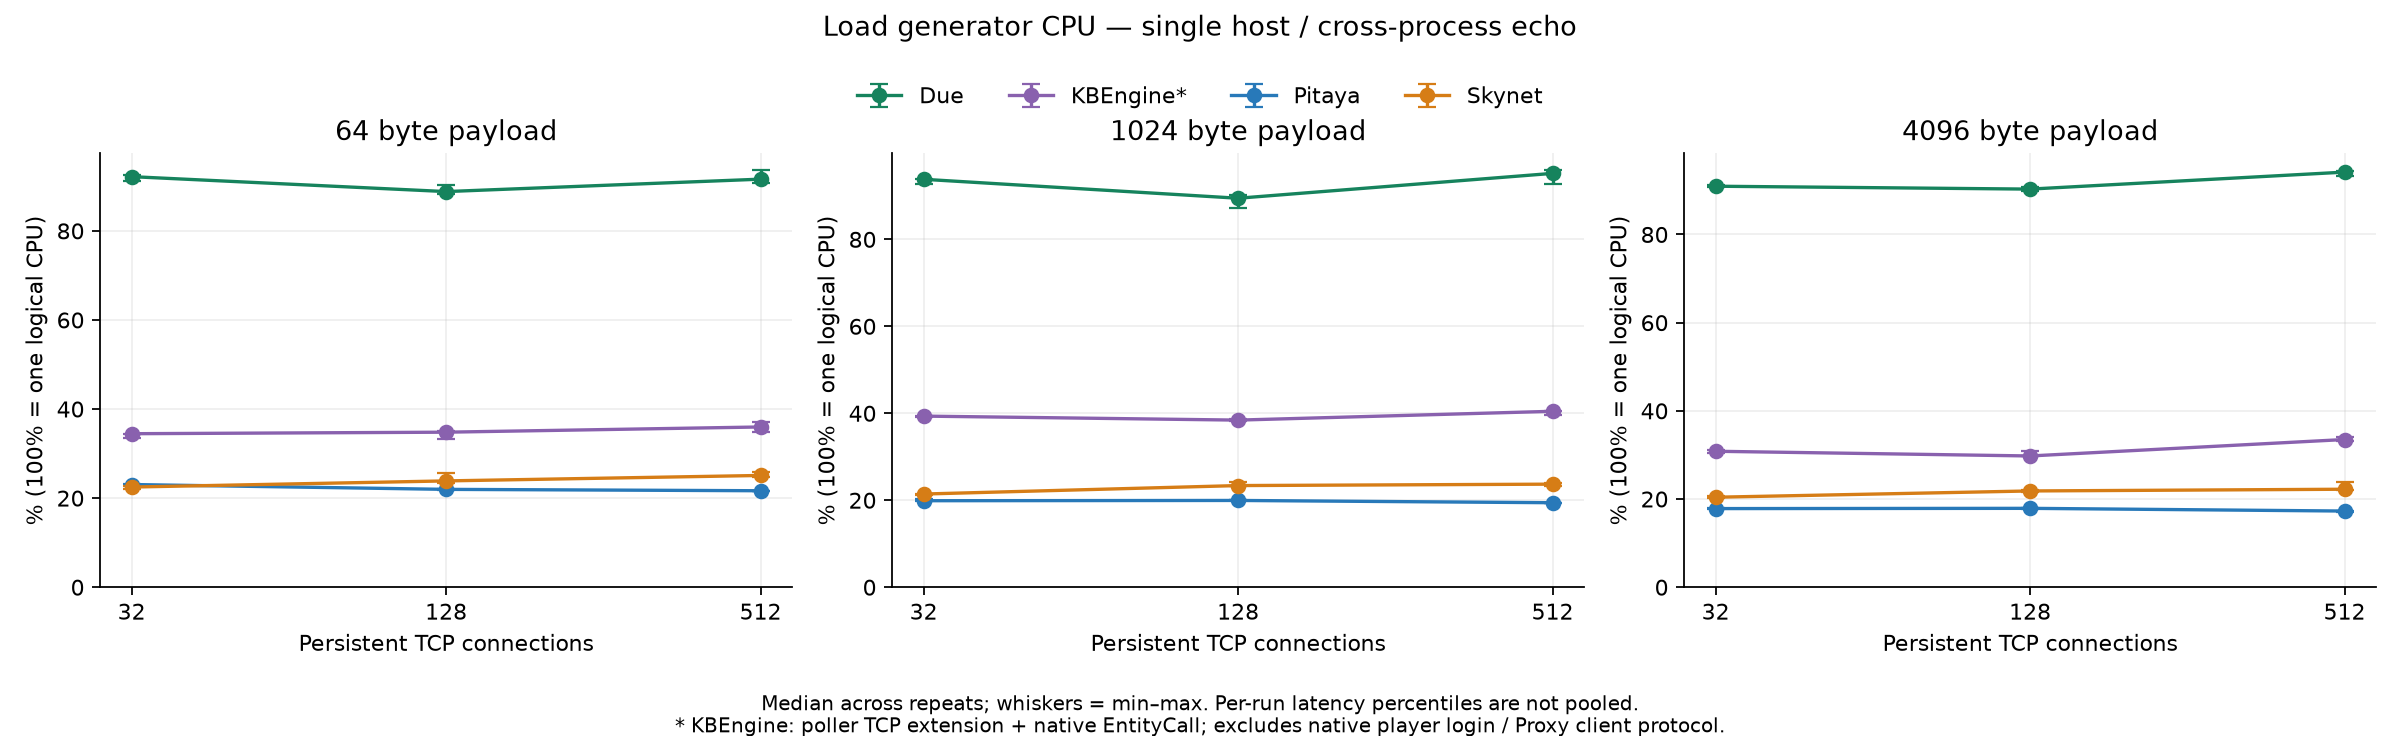
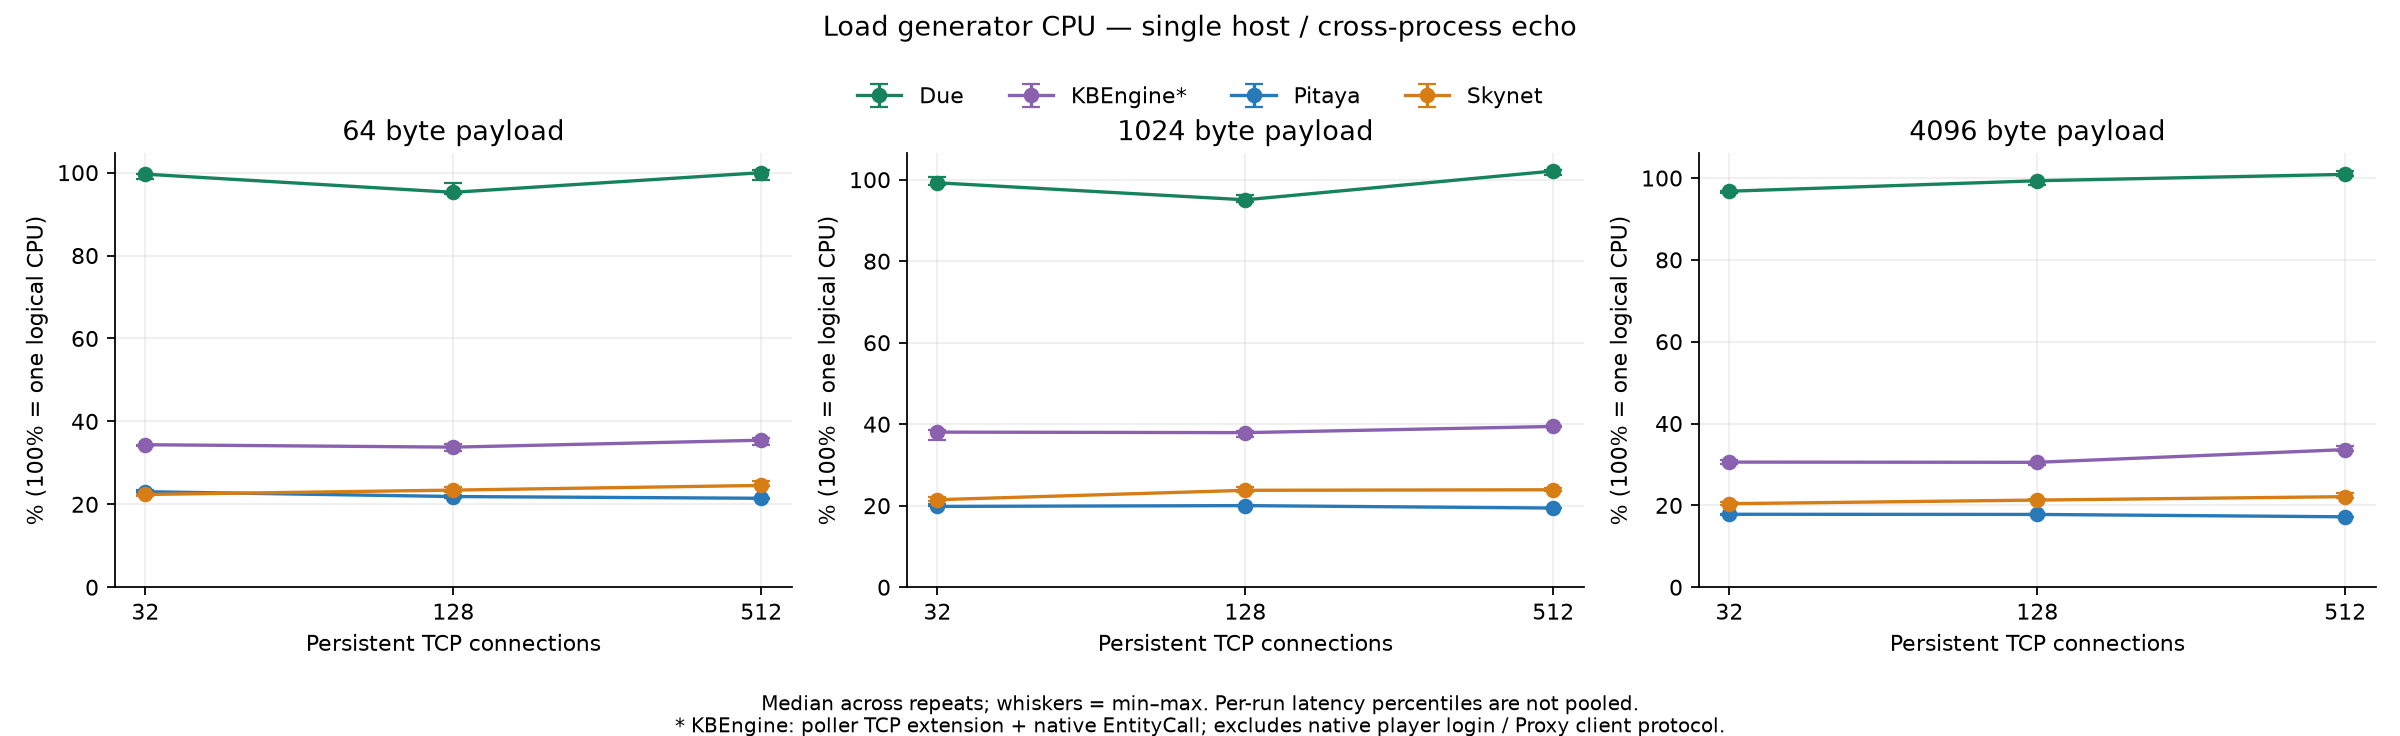
docs: refresh benchmark results for v2.6.5
## documentation

- Replace the stress-test table with the 2026-10-26 four-framework TCP retest figures and label Due as the v2.6.5 local snapshot `d56a53eb7888`.
- Add the test provenance note: 108 cases, 10,800,000 requests, zero failures, verified `due.Version` and clean worktree.
- Document the comparison caveats for the KBEngine poller/EntityCall baseline, per-role CPU accounting, and Due's default debug mode.
- Regenerate the benchmark charts for QPS, P99, P99.9, load-generator CPU, server CPU, and server peak RSS from the new runs.

## Validation

- Markdown structure, tables, and links reviewed in both README variants; no Go code or module metadata changed, so no Go checks were run.

diff --git a/README.md b/README.md
@@ -789,6 +789,8 @@ INFO[2024/07/03 14:53:13.995049] main.go:72 [I'm server, and the current time is
 
 ### 13. Stress Test
 
+Updated **2026-10-26** using the [four-framework TCP retest report](https://github.com/dobyte/due-benchmark/blob/master/comparison/reports/2026-10-26/REPORT.md). All 108 cases and 10,800,000 measured requests completed with zero failures. Before testing, both the local `due.Version` constant and the deployed binary were verified as **v2.6.5**. The source worktree was clean at `d56a53eb788837b33d0d0a205b1c9f58fb0103ed`; HEAD had no release tag, so this is a frozen local source snapshot.
+
 1. Test scenario
 
 The load generator calls the TCP entry of Skynet, Pitaya, KBEngine and Due. Each framework serves the request through a gateway process and a business process, and the business operation echoes the payload unchanged. The measurement covers network I/O, protocol handling, routing and inter-process dispatch, without database work or artificial delays.
@@ -814,7 +816,7 @@ The load generator calls the TCP entry of Skynet, Pitaya, KBEngine and Due. Each
 | OS | CentOS 7, Linux 3.10, x86_64 |
 | Go | 1.27.1 |
 | Deployment | Single machine loopback, frameworks run one after another |
-| Frameworks | Skynet `64391f732e76`, Pitaya `f3d0af570f76`, KBEngine `7d379b9f943d`, Due snapshot based on `8f44429a84ce` |
+| Frameworks | Skynet `64391f732e76`, Pitaya `f3d0af570f76`, KBEngine `7d379b9f943d`, Due v2.6.5 local snapshot `d56a53eb7888` |
 
 Go processes run with `GOMAXPROCS=2` and the two Skynet processes with `thread=2`. CPU affinity is bound per role: gateway on logical CPUs `0,6`, business on `1,7`, load generator on `2,3,8,9`, infrastructure on `4,10`. Affinity limits the range of the test processes, it does not reserve the whole machine.
 
@@ -824,12 +826,14 @@ All values are medians of three rounds; the range in parentheses is the minimum 
 
 | Framework | QPS (min-max) | P99 (ms) | P99.9 (ms) | Server CPU (%) | Server RSS (MiB) |
 |---|---:|---:|---:|---:|---:|
-| Skynet | 21,410 (21,133-21,642) | 8.330 | 19.655 | 184.1 | 152.0 |
-| Pitaya | 16,625 (16,529-16,625) | 11.166 | 12.478 | 349.1 | 52.6 |
-| KBEngine | 47,669 (47,441-47,902) | 2.893 | 3.391 | 152.8 | 33.5 |
-| Due | 97,005 (95,935-97,234) | 3.381 | 5.068 | 325.0 | 54.4 |
+| Skynet | 21,390 (21,230-21,572) | 7.873 | 19.681 | 188.5 | 149.7 |
+| Pitaya | 16,661 (16,584-16,685) | 11.111 | 12.052 | 350.4 | 53.5 |
+| KBEngine | 46,827 (46,058-47,892) | 2.936 | 3.015 | 152.8 | 33.6 |
+| Due v2.6.5 | 102,752 (102,423-103,330) | 2.963 | 4.739 | 322.6 | 58.0 |
 
 Due reaches the highest throughput under this load. KBEngine keeps lower P99 and P99.9 latency with this adapter, and Due consumes more CPU, so the throughput gap cannot be read as a per-CPU efficiency comparison.
+
+KBEngine uses the official poller TCP extension and native BaseApp/CellApp EntityCall; native player login and the Proxy client protocol are excluded. Server CPU/RSS covers only gateway and business processes, excluding infrastructure and management services; 100% CPU means one logical CPU. Due retains its default debug mode. The other three frameworks and load generator reuse the first run's fixed binaries, with all four frameworks measured again.
 
 These results describe the cross-process echo path of the listed versions and CPU allocation only. They are not a general ranking of the frameworks, do not include coordinated-omission correction, and do not cover idle connections, connection multiplexing, login storms or multi-machine deployments. See [due-benchmark](https://github.com/dobyte/due-benchmark) for the remaining payload and connection combinations, the full report and the raw data.
 

diff --git a/README-ZH.md b/README-ZH.md
@@ -788,6 +788,9 @@ INFO[2024/07/03 14:53:13.995049] main.go:72 [I'm server, and the current time is
 ```
 
 ### 13.压力测试
+
+本节数据更新于 **2026-10-26**，来自[四框架 TCP 复测报告](https://github.com/dobyte/due-benchmark/blob/master/comparison/reports/2026-10-26/REPORT.md)。共完成 108 个测试点、10,800,000 次正式请求，失败为 0。开测前，本地源码 `due.Version` 和实际部署二进制均核验为 **v2.6.5**；源码工作区干净，提交 `d56a53eb788837b33d0d0a205b1c9f58fb0103ed`。HEAD 无发布标签，本次使用冻结的本地源码快照。
+
 1.测试场景
 
 压测器分别调用 Skynet、Pitaya、KBEngine 和 Due 的 TCP 入口。每个框架都经过网关进程和业务进程，业务操作为 Echo，原样返回负载。测量覆盖网络收发、协议处理、路由和跨进程调度，不包含数据库业务或人为延迟。
@@ -813,7 +816,7 @@ INFO[2024/07/03 14:53:13.995049] main.go:72 [I'm server, and the current time is
 | 操作系统 | CentOS 7，Linux 3.10，x86_64 |
 | Go | 1.27.1 |
 | 部署 | 单机 loopback，各框架依次运行 |
-| 框架版本 | Skynet `64391f732e76`、Pitaya `f3d0af570f76`、KBEngine `7d379b9f943d`、Due 基于 `8f44429a84ce` 的本地源码快照 |
+| 框架版本 | Skynet `64391f732e76`、Pitaya `f3d0af570f76`、KBEngine `7d379b9f943d`、Due v2.6.5 本地源码快照 `d56a53eb7888` |
 
 Go 进程设置 `GOMAXPROCS=2`，两个 Skynet 进程设置 `thread=2`。CPU 按角色绑定：网关为逻辑 CPU `0,6`，业务为 `1,7`，压测器为 `2,3,8,9`，基础设施为 `4,10`。CPU 亲和性只限制测试进程的运行范围，不等于全机独占。
 
@@ -823,12 +826,14 @@ Go 进程设置 `GOMAXPROCS=2`，两个 Skynet 进程设置 `thread=2`。CPU 按
 
 | 框架 | QPS（min-max） | P99（ms） | P99.9（ms） | 服务 CPU（%） | 服务 RSS（MiB） |
 |---|---:|---:|---:|---:|---:|
-| Skynet | 21,410（21,133-21,642） | 8.330 | 19.655 | 184.1 | 152.0 |
-| Pitaya | 16,625（16,529-16,625） | 11.166 | 12.478 | 349.1 | 52.6 |
-| KBEngine | 47,669（47,441-47,902） | 2.893 | 3.391 | 152.8 | 33.5 |
-| Due | 97,005（95,935-97,234） | 3.381 | 5.068 | 325.0 | 54.4 |
+| Skynet | 21,390（21,230-21,572） | 7.873 | 19.681 | 188.5 | 149.7 |
+| Pitaya | 16,661（16,584-16,685） | 11.111 | 12.052 | 350.4 | 53.5 |
+| KBEngine | 46,827（46,058-47,892） | 2.936 | 3.015 | 152.8 | 33.6 |
+| Due v2.6.5 | 102,752（102,423-103,330） | 2.963 | 4.739 | 322.6 | 58.0 |
 
 在该负载下 Due 吞吐量最高。KBEngine 的 P99、P99.9 延迟更低，而 Due 使用的 CPU 更多，因此吞吐差异不能直接解释为单位 CPU 效率差异。
+
+KBEngine 使用官方 poller TCP 扩展和原生 BaseApp/CellApp EntityCall，不包含原生玩家登录及 Proxy 客户端协议。服务 CPU/RSS 仅统计网关与业务进程，排除基础设施和管理服务；CPU 100% 表示一个逻辑核。Due 保持默认 debug 模式，其他三个框架及压测器沿用首轮固定二进制并重新实测。
 
 以上结果只描述所列版本和 CPU 配置下的跨进程 Echo 链路，不代表框架总体排名，也未作 coordinated-omission 修正，且未覆盖空闲连接、连接多路复用、登录风暴或跨机部署。其余负载与并发组合、完整报告和原始数据见 [due-benchmark](https://github.com/dobyte/due-benchmark)。
 
